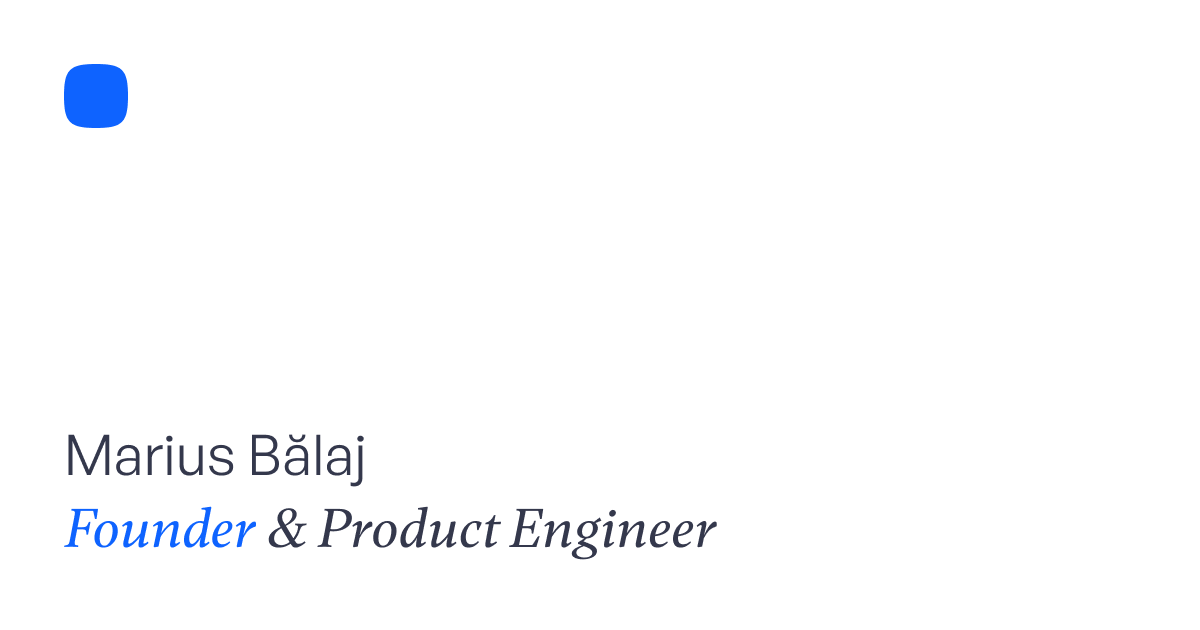
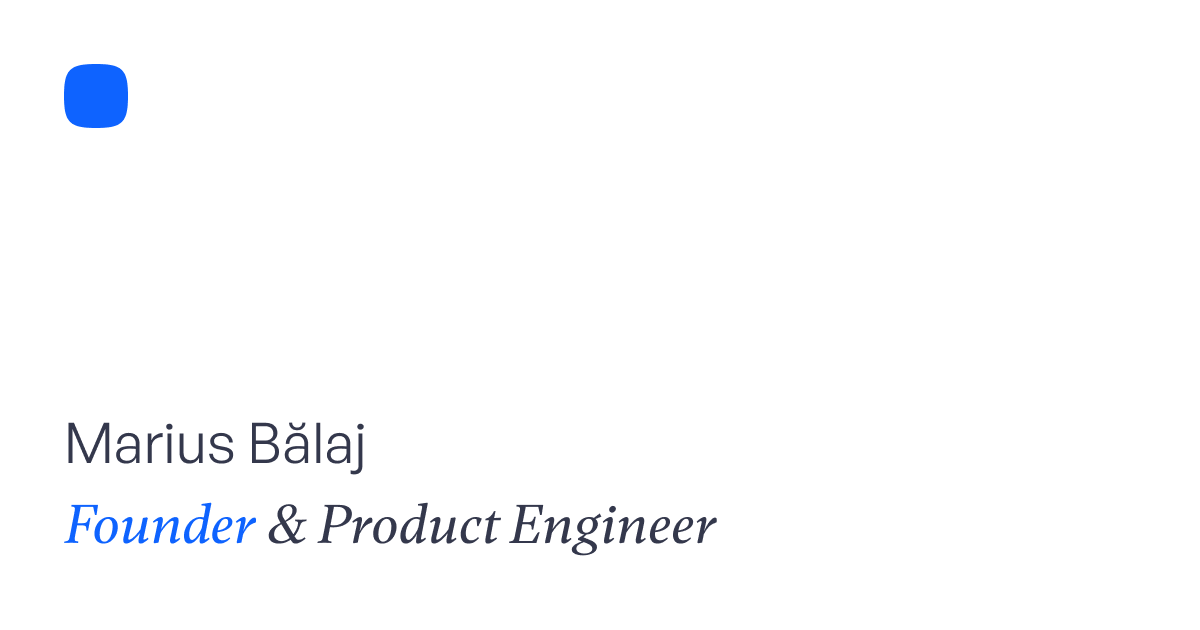
chore: remove Wunderlabs and replace og image

Changed region(s): [[0.0308, 0.6635, 0.6167, 0.9048]]

diff --git a/src/sections/about/about.tsx b/src/sections/about/about.tsx
@@ -66,16 +66,6 @@ const About = () => {
         {chunks}
       </Link>
     ),
-    url5: (chunks: ReactNode) => (
-      <Link
-        href={links.wunderlabs}
-        className="text-blue-500"
-        target="_blank"
-        rel="noopener noreferrer"
-      >
-        {chunks}
-      </Link>
-    ),
   };
 
   return (
@@ -96,9 +86,6 @@ const About = () => {
           </Typography>
           <Typography variant="body1">
             {t.rich("about.description.2", renderers)}
-          </Typography>
-          <Typography variant="body1">
-            {t.rich("about.description.3", renderers)}
           </Typography>
         </div>
       </motion.div>

diff --git a/src/app/layout.tsx b/src/app/layout.tsx
@@ -83,11 +83,11 @@ const personStructuredData = {
   "@id": `${APP_URL}/#person`,
   name: copy.metadata.title,
   url: APP_URL,
-  jobTitle: "Co-Founder",
+  jobTitle: "Managing Director (Romania)",
   worksFor: {
     "@type": "Organization",
-    name: "Wunderlabs",
-    url: links.wunderlabs,
+    name: "The Sandbox",
+    url: links.sandbox,
   },
   sameAs: [links.github, links.linkedin, links.x, links.goodreads],
 } as const;

diff --git a/src/utils/links.ts b/src/utils/links.ts
@@ -4,7 +4,6 @@ export const links = {
   x: "https://x.com/balajmarius",
   goodreads: "https://www.goodreads.com/user/show/47935304-marius-balaj",
   qed: "https://qed.builders",
-  wunderlabs: "https://wunderlabs.dev",
   hevy: "https://hevy.com/user/balaj_marius",
   sandbox:
     "https://www.zf.ro/business-hi-tech/tranzactie-in-segmentul-web3-metaverse-the-sandbox-achizitioneaza-un-22681801",

diff --git a/src/sections/experience/experience.tsx b/src/sections/experience/experience.tsx
@@ -30,11 +30,6 @@ const Experience = () => {
       role: t("experience.jobs.4.role"),
       duration: t("experience.jobs.4.duration"),
     },
-    {
-      title: t("experience.jobs.5.title"),
-      role: t("experience.jobs.5.role"),
-      duration: t("experience.jobs.5.duration"),
-    },
   ];
 
   return (
